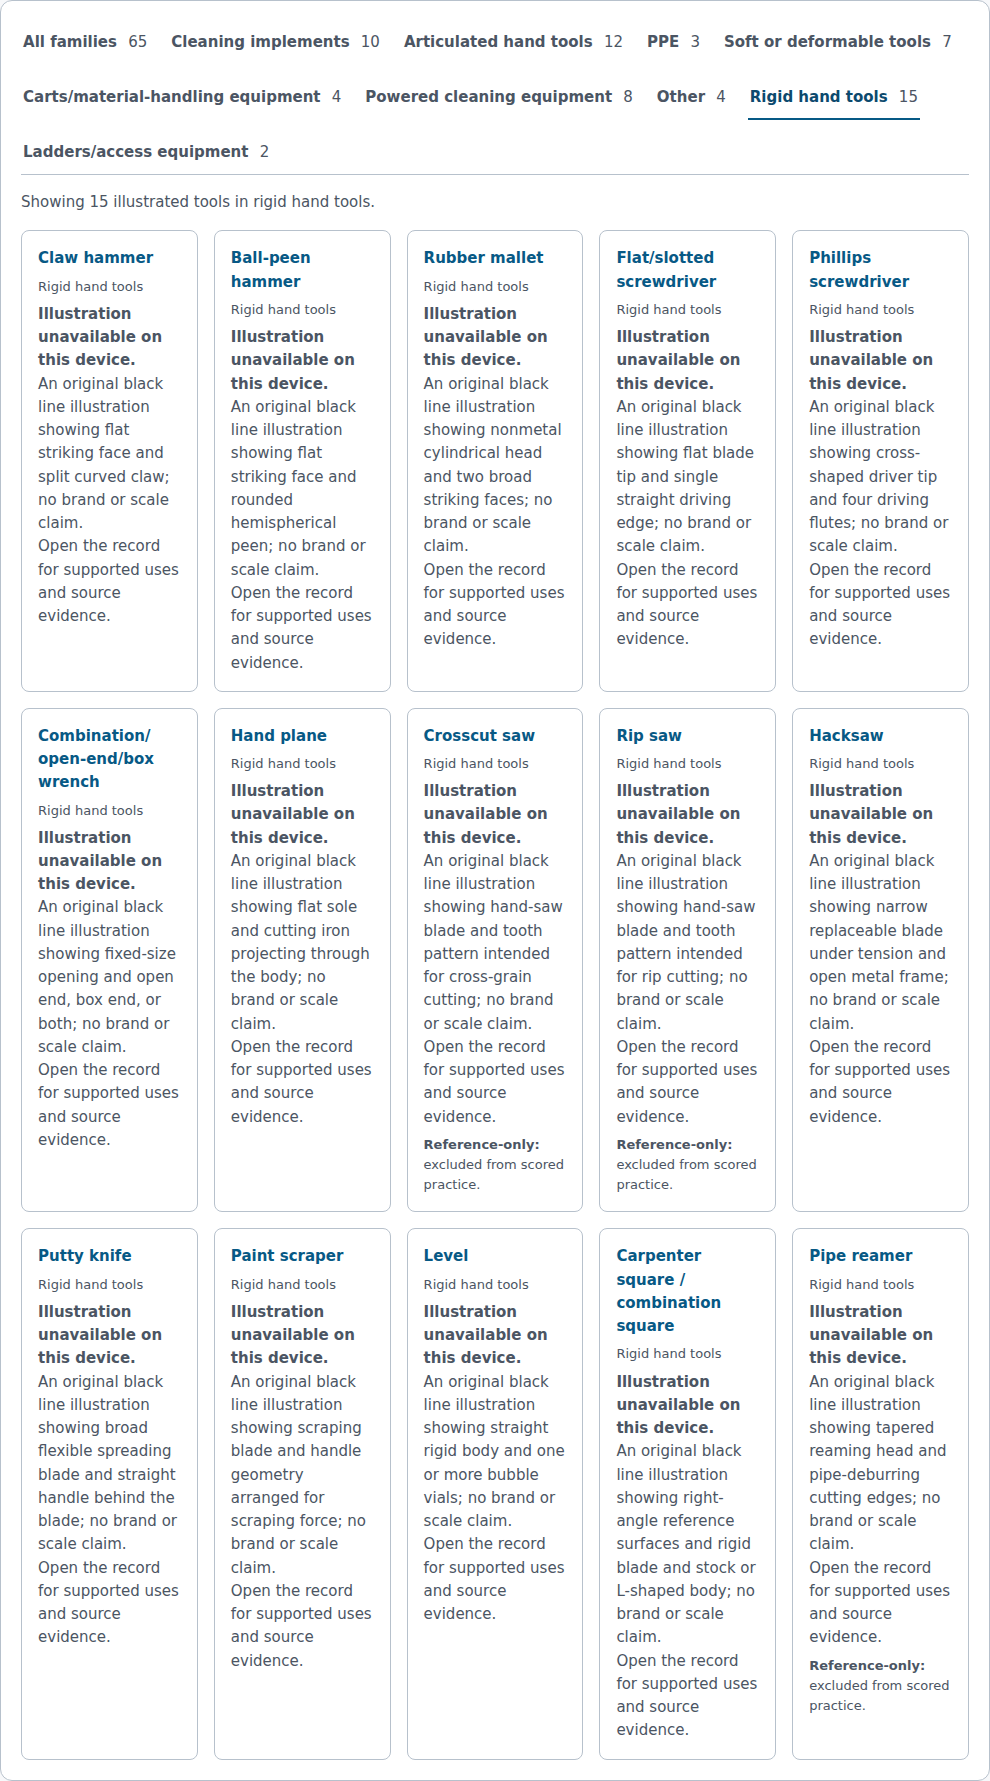
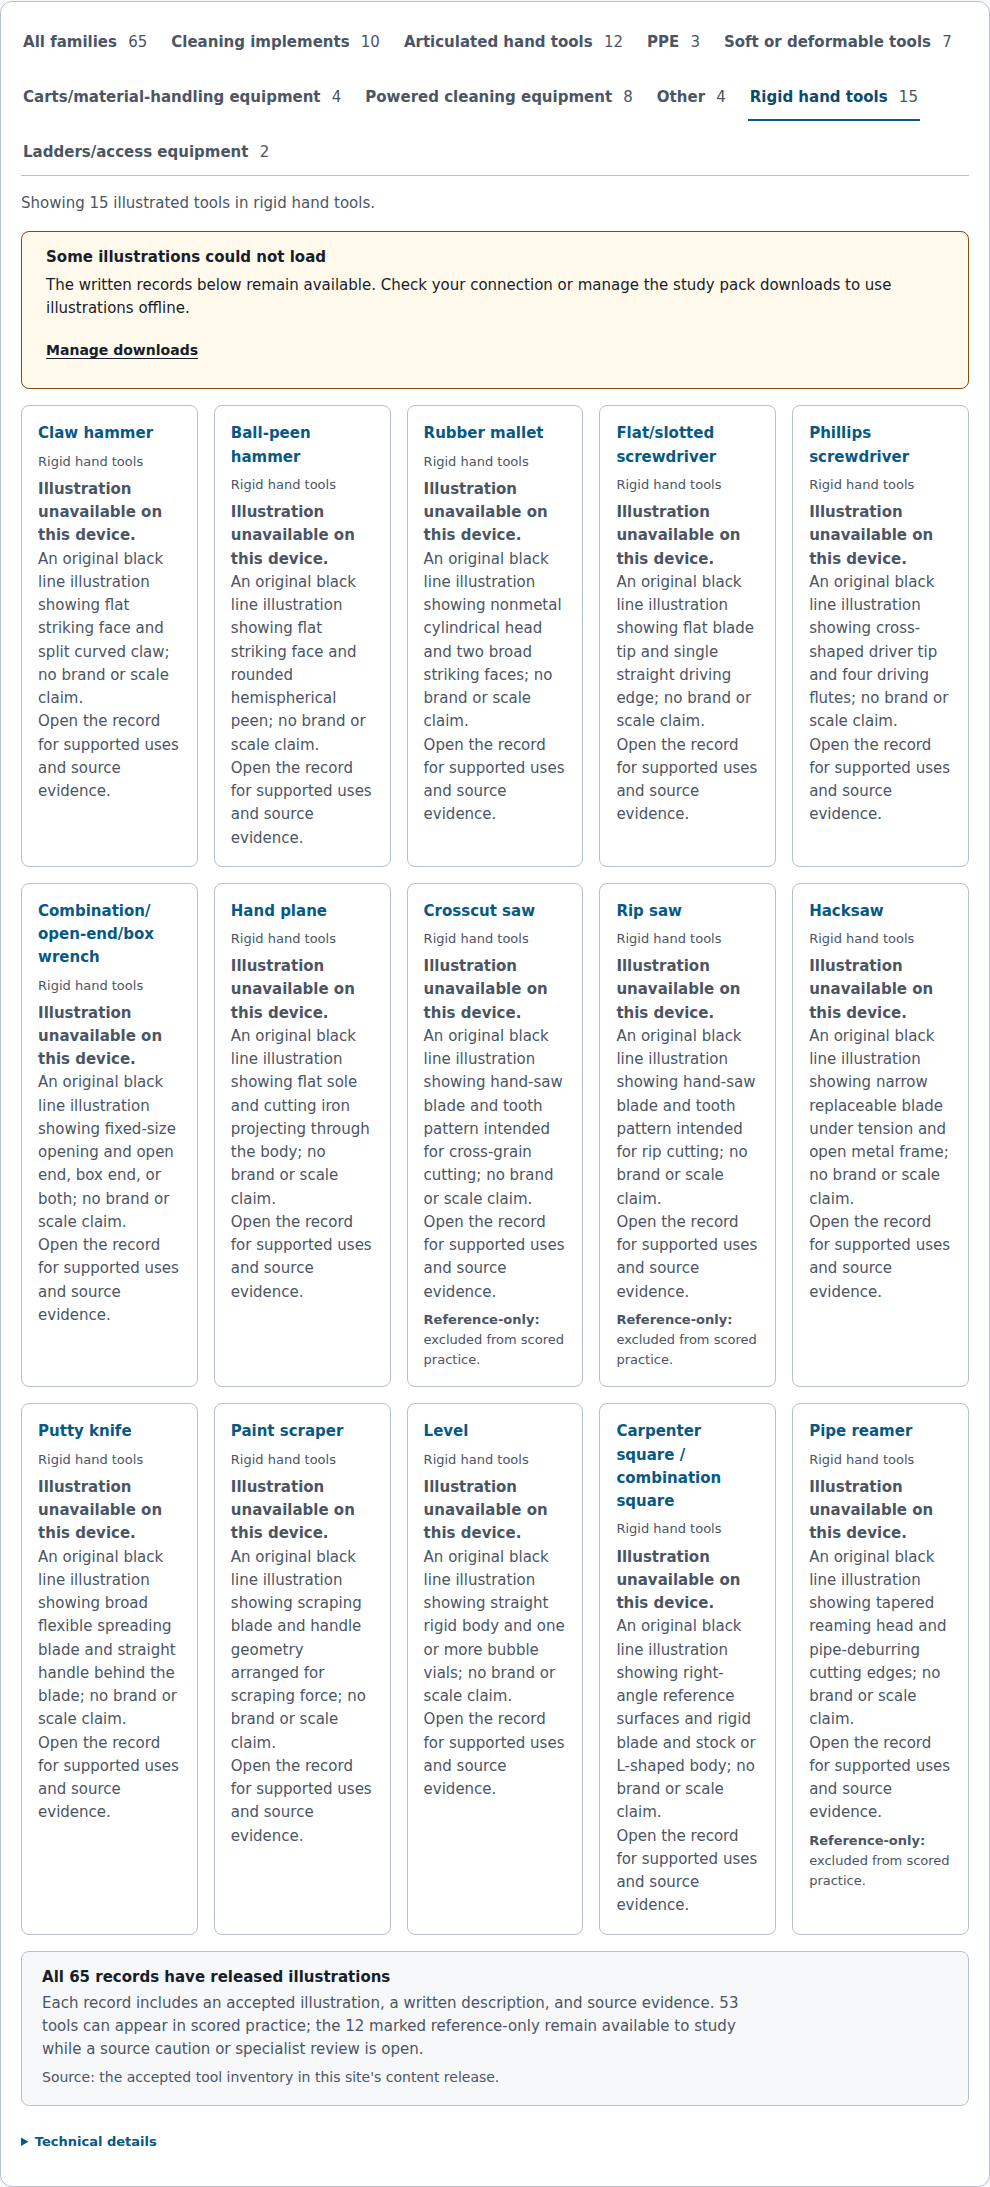
Add Atlas release provenance and visible-image recovery

Changed region(s): [[0.0303, 0.0, 0.9697, 0.9882], [0.7273, 0.0, 0.9394, 0.0618]]

diff --git a/apps/site/scripts/generate-pages.tsx b/apps/site/scripts/generate-pages.tsx
@@ -1508,10 +1508,13 @@ const buildPages = ({
     section: "atlas",
     body: `
   <main class="page-shell" id="main-content" tabindex="-1">
-    <section class="page-header"><h1>Tool atlas</h1><p>Recognize a tool by its shape, use, and the features that tell look-alikes apart. Every published illustration has a written description and source support.</p><p class="atlas-eligibility-note">${scoredTools.length} tools can appear in scored practice. ${releasedTools.length - scoredTools.length} remain reference-only while a source caution or specialist review is open; each is marked below.</p></section>
+    <section class="page-header"><h1>Tool atlas</h1><p>Recognize a tool by its shape, use, and the features that tell look-alikes apart. Every published illustration has a written description and source support.</p></section>
     <section class="atlas-browser" data-atlas-browser aria-label="Browse illustrated tools"><div class="tabs atlas-filters" role="tablist" aria-label="Visual family" data-atlas-filters hidden><button class="atlas-filter" id="atlas-family-all" type="button" role="tab" aria-selected="true" aria-controls="atlas-tools" data-atlas-family="all">All families <span class="filter-count">${releasedTools.length}</span></button>${[...families].map(([family, tools]) => `<button class="atlas-filter" id="atlas-family-${slugify(family)}" type="button" role="tab" aria-selected="false" aria-controls="atlas-tools" tabindex="-1" data-atlas-family="${escapeHtml(family)}">${escapeHtml(capitalize(family))} <span class="filter-count">${tools.length}</span></button>`).join("")}</div><p class="atlas-count" data-atlas-count role="status">Showing all ${releasedTools.length} illustrated tools.</p>
     <div class="atlas-family-select" data-atlas-select-field hidden><label for="atlas-family-select">Family</label><select id="atlas-family-select" data-atlas-select><option value="all">All families — ${releasedTools.length} records</option>${[...families].map(([family, tools]) => `<option value="${escapeHtml(family)}">${escapeHtml(capitalize(family))} — ${tools.length} records</option>`).join("")}</select></div>
-    <div class="tool-grid" id="atlas-tools">${toolEntries.map(({ slug, tool }, index) => `<article class="tool-card" data-tool-family="${escapeHtml(tool.family)}"><img src="${derivativePath(tool, "phone")}" width="320" height="320" ${index >= 4 ? 'loading="lazy" ' : ""}alt="${escapeHtml(tool.neutralDescription)}"><div><h2><a href="/atlas/tool/${slug}/">${escapeHtml(tool.canonicalTerm).replaceAll("/", "/<wbr>")}</a></h2><p class="tool-family">${escapeHtml(capitalize(tool.family))}</p><div data-atlas-image-notice hidden><p><strong>Illustration unavailable on this device.</strong></p><p>${escapeHtml(tool.neutralDescription)}</p><p>Open the record for supported uses and source evidence.</p></div>${tool.practiceEligibility === "atlas-only" ? '<p class="tool-eligibility"><strong>Reference-only:</strong> excluded from scored practice.</p>' : '<p class="tool-eligibility tool-eligibility-scored">In scored practice</p>'}</div></article>`).join("")}</div></section>
+    <aside class="notice notice-warning atlas-image-recovery" data-atlas-image-recovery hidden aria-labelledby="atlas-image-recovery-heading"><h2 id="atlas-image-recovery-heading">Some illustrations could not load</h2><p>The written records below remain available. Check your connection or manage the study pack downloads to use illustrations offline.</p><a href="/offline/">Manage downloads</a></aside>
+    <div class="tool-grid" id="atlas-tools">${toolEntries.map(({ slug, tool }, index) => `<article class="tool-card" data-tool-family="${escapeHtml(tool.family)}"><img src="${derivativePath(tool, "phone")}" width="320" height="320" ${index >= 4 ? 'loading="lazy" ' : ""}alt="${escapeHtml(tool.neutralDescription)}"><div><h2><a href="/atlas/tool/${slug}/">${escapeHtml(tool.canonicalTerm).replaceAll("/", "/<wbr>")}</a></h2><p class="tool-family">${escapeHtml(capitalize(tool.family))}</p><div data-atlas-image-notice hidden><p><strong>Illustration unavailable on this device.</strong></p><p>${escapeHtml(tool.neutralDescription)}</p><p>Open the record for supported uses and source evidence.</p></div>${tool.practiceEligibility === "atlas-only" ? '<p class="tool-eligibility"><strong>Reference-only:</strong> excluded from scored practice.</p>' : '<p class="tool-eligibility tool-eligibility-scored">In scored practice</p>'}</div></article>`).join("")}</div>
+    <section class="atlas-release-note" aria-labelledby="atlas-release-heading"><h2 id="atlas-release-heading">All ${releasedTools.length} records have released illustrations</h2><p>Each record includes an accepted illustration, a written description, and source evidence. ${scoredTools.length} tools can appear in scored practice; the ${releasedTools.length - scoredTools.length} marked reference-only remain available to study while a source caution or specialist review is open.</p><p>Source: the accepted tool inventory in this site's content release.</p></section>
+    <details class="atlas-release-details"><summary>Technical details</summary><dl><dt>Content release</dt><dd>${escapeHtml(catalog.packId)} · version ${catalog.version}</dd><dt>Illustrations</dt><dd>${releasedTools.length} accepted tool records; 320px phone derivatives</dd><dt>Source support</dt><dd>Open an individual tool record for its recognition cues, supported uses, source evidence, and any scored-use restriction.</dd></dl></details></section>
     <section class="section-gap" id="comparisons"><h2>Comparison panels</h2><p>Each panel lives on its tool-family page, together with any restriction that keeps it out of scored practice.</p><ul class="link-list">${comparisonEntries.map(({ canonicalPath, comparison }) => {
       const names = comparison.memberIds.map((id) => toolById.get(id)?.canonicalTerm ?? id)
       return `<li><a href="${canonicalPath}">${escapeHtml(names.join(" vs. "))}</a><span>${comparison.scoredUseGate.length === 0 ? "Can appear in scored practice" : "Reference-only"}</span></li>`

diff --git a/apps/site/browser-tests/design-handoff.pw.ts b/apps/site/browser-tests/design-handoff.pw.ts
@@ -411,3 +411,32 @@ test("Atlas desktop cards follow the reference grid and retain every family coun
   await page.setViewportSize({ width: 384, height: 900 })
   await expect(page.locator(".tool-eligibility-scored:visible")).toHaveCount(53)
 })
+
+test("Atlas recovery follows visible failures and its release note is readable without JavaScript", async ({ page, browser, baseURL }) => {
+  await page.setViewportSize({ width: 384, height: 900 })
+  await page.goto("/atlas/")
+  const recovery = page.locator("[data-atlas-image-recovery]")
+  await expect(recovery).toBeHidden()
+  const firstSource = await page.locator("[data-tool-family] img").first().getAttribute("src")
+  expect(firstSource).toBeTruthy()
+  await page.route(`**${firstSource}`, route => route.abort())
+  await page.reload()
+  await expect(recovery).toBeVisible()
+  await page.getByRole("combobox", { name: "Family", exact: true }).selectOption("PPE")
+  await expect(recovery).toBeHidden()
+  await page.getByRole("combobox", { name: "Family", exact: true }).selectOption("all")
+  await expect(recovery).toBeVisible()
+  await recovery.getByRole("link", { name: "Manage downloads", exact: true }).click()
+  await expect(page).toHaveURL(/\/offline\/$/)
+  if (baseURL === undefined) throw new Error("Browser base URL is required")
+  const context = await browser.newContext({ baseURL, javaScriptEnabled: false, viewport: { width: 384, height: 900 } })
+  try {
+    const document = await context.newPage()
+    await document.goto("/atlas/")
+    await expect(document.getByRole("heading", { name: "All 65 records have released illustrations", exact: true })).toBeVisible()
+    const details = document.locator(".atlas-release-details")
+    await details.locator("summary").click()
+    await expect(details.locator("dd").first()).toHaveText(`${catalog.packId} · version ${catalog.version}`)
+    await expectPageReflow(document)
+  } finally { await context.close() }
+})

diff --git a/apps/site/src/static-browser.ts b/apps/site/src/static-browser.ts
@@ -36,6 +36,10 @@ const enhanceAtlas = (root: HTMLElement): void => {
   const compact = window.matchMedia("(max-width: 47.99rem)")
   if (filters === null || count === null || panel === null || buttons.length === 0) return
 
+  const imageRecovery = root.querySelector<HTMLElement>("[data-atlas-image-recovery]")
+  const updateImageRecovery = (): void => {
+    if (imageRecovery !== null) imageRecovery.hidden = !cards.some(card => !card.hidden && card.hasAttribute("data-image-unavailable"))
+  }
   for (const card of cards) {
     const illustration = card.querySelector<HTMLImageElement>("img")
     const notice = card.querySelector<HTMLElement>("[data-atlas-image-notice]")
@@ -44,6 +48,7 @@ const enhanceAtlas = (root: HTMLElement): void => {
       illustration.hidden = true
       notice.hidden = false
       card.setAttribute("data-image-unavailable", "")
+      updateImageRecovery()
     }
     illustration.addEventListener("error", unavailable)
     if (illustration.complete && illustration.naturalWidth === 0) unavailable()
@@ -60,6 +65,7 @@ const enhanceAtlas = (root: HTMLElement): void => {
       card.hidden = family !== "all" && card.dataset.toolFamily !== family
       if (!card.hidden) visible += 1
     }
+    updateImageRecovery()
     if (compactSelect !== null) compactSelect.value = family
     panel.setAttribute("aria-labelledby", compact.matches ? "atlas-family-select" : button.id)
     count.textContent = family === "all"

diff --git a/apps/site/src/design-system.css b/apps/site/src/design-system.css
@@ -1169,3 +1169,16 @@
   .atlas-browser .tool-card h2 a { text-decoration: none; }
   .atlas-browser .tool-card h2 a:hover { text-decoration: underline; }
 }
+
+@layer overrides {
+  .atlas-release-note { padding: 1rem 1.25rem; border: var(--border-thin) solid var(--color-border); border-radius: 0.5rem; background: var(--color-canvas); }
+  .atlas-release-note h2, .atlas-image-recovery h2 { font-size: 0.9375rem; }
+  .atlas-release-note p { max-inline-size: 74ch; margin-block-start: 0.375rem; font-size: 0.9375rem; color: var(--color-text-muted); }
+  .atlas-release-note p:last-child { font-size: 0.875rem; }
+  .atlas-release-details { font-size: 0.8125rem; color: var(--color-text-muted); }
+  .atlas-release-details summary { padding-block: 0.625rem; min-block-size: 2.75rem; color: var(--color-action); font-weight: var(--weight-bold); cursor: pointer; }
+  .atlas-release-details dl { display: grid; grid-template-columns: auto minmax(0, 1fr); gap: 0.375rem 0.75rem; }
+  .atlas-release-details dd { margin: 0; overflow-wrap: anywhere; }
+  .atlas-image-recovery p { font-size: 0.9375rem; }
+  .atlas-image-recovery a { display: inline-flex; align-items: center; min-block-size: 2.75rem; font-size: 0.875rem; font-weight: var(--weight-bold); }
+}

diff --git a/design-review/2026-09-07/IMPLEMENTATION-STATUS.md b/design-review/2026-09-07/IMPLEMENTATION-STATUS.md
@@ -9,7 +9,7 @@ The active task is the complete handoff in `/mnt/models/dev/nycustodianexam/IMPL
 | Practice hub and Review | First-slice real-save/failure captures, durable review regression tests | Responsive first-visit order, hero/settings links, compact coverage and preset disclosure reconciled; compact Review facts/actions reconciled; 24 captures refreshed, 21 Practice and 6 Review three-browser checks pass; five-question Review inventory and unavailable/history sections captured in review-inventory-audit; unavailable count and compact reason typography corrected with six three-browser regressions; mixed question/hazard inventory and recovery specimens compared in review-mixed-audit/review-recovery-audit; error and cleared layouts corrected; final integrated validation remains |
 | Simulation setup | SETUP-ATLAS-REVIEW.md, effective lengths/timing/format; no exam prerequisite | Final integrated capture/checks |
 | Practice/Hazard builder | PRACTICE-BUILDER-REVIEW.md and HAZARD-BUILDER-REVIEW.md: effective builders, custom navigation and exact saved-history receipts | Hazard page composition updated with desktop/compact/no-JS evidence; Practice composition/direct-link focus updated with desktop/compact captures and three-browser checks; Practice/Hazard summaries reconciled with desktop/compact evidence and 15 targeted browser passes; final integrated comparison remains; CROSS-BROWSER-WORKFLOWS.md records 27 three-browser builder/Review passes, including real offline save/feedback; WebKit emulation issue isolated with a minimal reproduction; custom import passes in Chromium |
-| Atlas catalog | Nine-family desktop/compact controls, all 65 images, eligibility/failure states | ATLAS-RECORD-REVIEW.md: sampled record/family reflow, readable missing-image fallback, all 65 records audited and reference-only capture; matching 990px catalog comparison corrected five-column sizing/typography, with 12 three-browser checks and final-audit captures; closing provenance note and page-level image-recovery message remain |
+| Atlas catalog | Nine-family desktop/compact controls, all 65 images, eligibility/failure states | ATLAS-RECORD-REVIEW.md: sampled record/family reflow, readable missing-image fallback, all 65 records audited and reference-only capture; matching 990px catalog comparison corrected five-column sizing/typography, with 12 three-browser checks and final-audit captures; closing provenance note and visible-failure recovery implemented with current release metadata, 15 browser checks, and 12 refreshed captures; platform typography differences and sampled record-view limits documented |
 | Question player | QUESTION-PLAYER-REVIEW.md: text card/action reconciliation, real-state captures, 14 browser checks | Illustrated binding, compiler, shared player and retained print image support implemented; q091 released in pack v4 with actual save/reload/Review checks and four captures; historical question/hazard import and activity restoration verified; no-JavaScript responsive illustration verified; 11 actual illustrated PDF pages inspected; illustrated estimates now match four captured PDF samples; origin-disconnected illustrated practice and historical custom feedback tested; real installed version-3 → version-4 upgrade passes in all three browsers with saved-question restoration and pinned simulation resumption; final visual audits remain |
 | Hazard player | HAZARD-PLAYER-REVIEW.md: responsive workspace, header/save panel, nine real-state captures and nine regression tests | Visual/keyboard layout, integrated retained-image overlay, correction/safe groups and compact recovery captured; final cross-browser and matching-width visual audit remain |
 | Simulation player/results | SIMULATION-NAVIGATOR-REVIEW.md and SIMULATION-FLOW-REVIEW.md: navigator, player/timer and question-result captures at 1008/384; restore/focus checks; 24 three-browser regressions pass | Visual/keyboard hazard player/results now captured at both widths; no-concerns target corrected and six three-browser hazard regressions pass; final integrated audit and separate Static Assets check remain |

diff --git a/design-review/2026-09-07/ATLAS-RECORD-REVIEW.md b/design-review/2026-09-07/ATLAS-RECORD-REVIEW.md
@@ -54,3 +54,38 @@ is absent (the current page puts eligibility totals in its introduction), and
 image failures lack its page-level recovery/download message. Per-record
 descriptions remain readable. These are explicit next implementation items;
 this grid comparison does not declare the whole Atlas family complete.
+
+## Release provenance and visible-image recovery — September 9
+
+The catalog now ends with the reference's release note and native technical
+disclosure. Counts come from released/scored tool inventories (65/53/12); the
+content-release identity comes from catalog.packId/version (launch-v1, version
+4), not the prototype's old v2.0.0 fixture. The wording says every record has a
+released illustration, without claiming that every image loaded on this device.
+The note identifies written descriptions, source evidence, and scored-use
+restrictions; the disclosure directs readers to individual records for support.
+Eligibility totals moved from the page introduction to this closing note.
+
+An image-recovery notice appears above the grid only when a currently visible
+card has an actual failed image request. Family selection recomputes visibility
+from those observed failures. Its copy states that some illustrations could not
+load, preserves written-record use, and links to /offline/ for downloads. It
+does not diagnose missing installation from a network failure or promise that
+a download fixes every failure. The existing per-record neutral descriptions
+and eligibility warnings remain available.
+
+The final capture set now has 12 artifacts: all/rigid/failed-image catalogs and
+focused release-note, expanded-details, and recovery-message crops at both
+viewport widths. Visually inspected those focused crops, including the compact
+metadata wrapping and download action. The new elements use the accepted
+reference's hierarchy with current release metadata and qualified recovery copy.
+Previously listed missing provenance/recovery elements are implemented.
+
+Validation: full build/artifact verification and site/browser typechecks pass.
+All 15 Atlas browser checks pass across Chromium, Firefox, and WebKit. A partial
+image-failure test verifies message visibility when the affected card is shown,
+suppression for an unaffected family, return with All families, and the genuine
+download destination. It also verifies current release metadata through a native
+disclosure without JavaScript. All 12 captures complete without page errors.
+Remaining platform typography differences and record-view sampling limits from
+the earlier audit remain explicit; broad final integrated gates are still pending.
